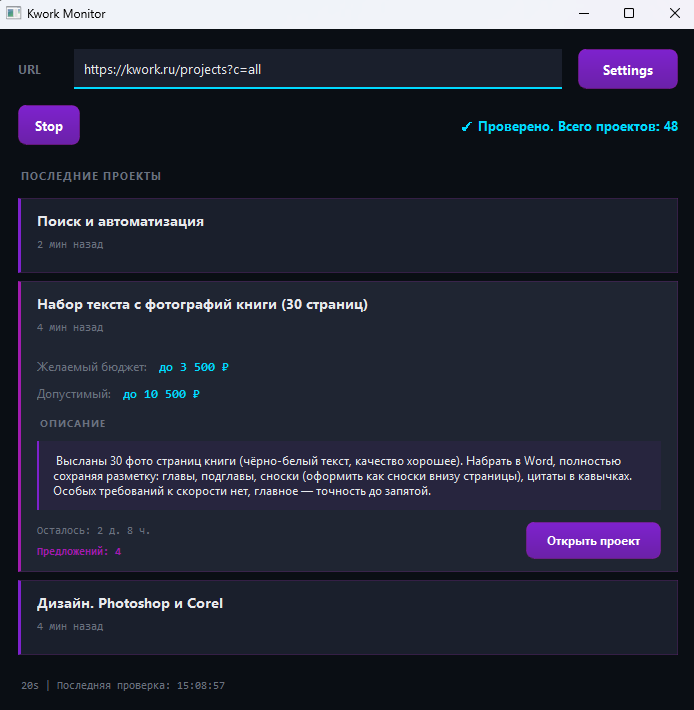
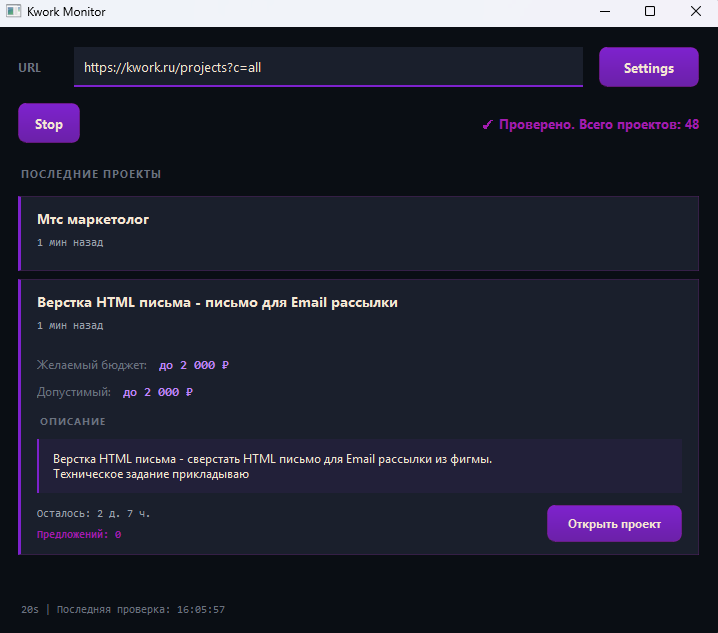
Improve animations, fix Unicode display, and add custom sound support
- Smooth card animations with OutCubic easing (400ms open / 350ms close)
- Fix Unicode escape sequences in descriptions ([:27a1] → ➡)
- Add custom notification.wav sound support (replaces system beep)
- Optimize animation performance (removed opacity animation for smoothness)
- Prevent animation conflicts with proper state checking
- Update screenshot with latest UI improvements

diff --git a/src/ui/project_card.py b/src/ui/project_card.py
@@ -1,7 +1,7 @@
 from PyQt5.QtWidgets import (
     QWidget, QVBoxLayout, QHBoxLayout, QLabel, QPushButton, QFrame, QGraphicsOpacityEffect
 )
-from PyQt5.QtCore import Qt, pyqtSignal, QPropertyAnimation, QEasingCurve, QParallelAnimationGroup
+from PyQt5.QtCore import Qt, pyqtSignal, QPropertyAnimation, QEasingCurve, QParallelAnimationGroup, QSequentialAnimationGroup
 from PyQt5.QtGui import QFont, QCursor
 from datetime import datetime
 import webbrowser
@@ -16,7 +16,7 @@ class ProjectCard(QFrame):
         super().__init__(parent)
         self.project = project
         self.expanded = False
-        self.animation = None
+        self.height_animation = None
         self.init_ui()
 
     def init_ui(self):
@@ -275,42 +275,51 @@ class ProjectCard(QFrame):
         """Переключает состояние раскрытия с плавной анимацией"""
         self.expanded = not self.expanded
 
+        # Останавливаем предыдущую анимацию если она еще работает
+        if self.height_animation and self.height_animation.state() == QPropertyAnimation.Running:
+            self.height_animation.stop()
+
         if self.expanded:
-            # Анимация раскрытия
+            # Показываем виджет и устанавливаем начальную высоту
             self.expanded_widget.setMaximumHeight(0)
             self.expanded_widget.show()
 
-            self.animation = QPropertyAnimation(self.expanded_widget, b"maximumHeight")
-            self.animation.setDuration(300)
-            self.animation.setStartValue(0)
-            self.animation.setEndValue(self.expanded_widget.sizeHint().height())
-            self.animation.setEasingCurve(QEasingCurve.OutCubic)
-            self.animation.start()
+            # Анимация раскрытия - более плавная
+            self.height_animation = QPropertyAnimation(self.expanded_widget, b"maximumHeight", self)
+            self.height_animation.setDuration(400)
+            self.height_animation.setStartValue(0)
+            self.height_animation.setEndValue(self.expanded_widget.sizeHint().height())
+            self.height_animation.setEasingCurve(QEasingCurve.OutCubic)
+            self.height_animation.start()
 
             # Уведомляем MainWindow, что эта карточка раскрылась
             self.expanded_changed.emit(self)
         else:
-            # Анимация закрытия
-            self.animation = QPropertyAnimation(self.expanded_widget, b"maximumHeight")
-            self.animation.setDuration(250)
-            self.animation.setStartValue(self.expanded_widget.height())
-            self.animation.setEndValue(0)
-            self.animation.setEasingCurve(QEasingCurve.InCubic)
-            self.animation.finished.connect(self.expanded_widget.hide)
-            self.animation.start()
+            # Анимация закрытия - такая же плавная
+            self.height_animation = QPropertyAnimation(self.expanded_widget, b"maximumHeight", self)
+            self.height_animation.setDuration(350)
+            self.height_animation.setStartValue(self.expanded_widget.height())
+            self.height_animation.setEndValue(0)
+            self.height_animation.setEasingCurve(QEasingCurve.OutCubic)
+            self.height_animation.finished.connect(self.expanded_widget.hide)
+            self.height_animation.start()
 
     def collapse(self):
         """Принудительно сворачивает карточку с анимацией"""
         if self.expanded:
             self.expanded = False
 
-            self.animation = QPropertyAnimation(self.expanded_widget, b"maximumHeight")
-            self.animation.setDuration(250)
-            self.animation.setStartValue(self.expanded_widget.height())
-            self.animation.setEndValue(0)
-            self.animation.setEasingCurve(QEasingCurve.InCubic)
-            self.animation.finished.connect(self.expanded_widget.hide)
-            self.animation.start()
+            # Останавливаем предыдущую анимацию если она еще работает
+            if self.height_animation and self.height_animation.state() == QPropertyAnimation.Running:
+                self.height_animation.stop()
+
+            self.height_animation = QPropertyAnimation(self.expanded_widget, b"maximumHeight", self)
+            self.height_animation.setDuration(350)
+            self.height_animation.setStartValue(self.expanded_widget.height())
+            self.height_animation.setEndValue(0)
+            self.height_animation.setEasingCurve(QEasingCurve.OutCubic)
+            self.height_animation.finished.connect(self.expanded_widget.hide)
+            self.height_animation.start()
 
     def _open_in_browser(self):
         """Открывает проект в браузере"""

diff --git a/src/services/notification.py b/src/services/notification.py
@@ -1,5 +1,6 @@
 import time
 import winsound
+import os
 from datetime import datetime
 from typing import List
 from ..models.project import Project
@@ -60,7 +61,13 @@ class NotificationService:
 
     def _play_sound(self):
         try:
-            winsound.MessageBeep(winsound.MB_ICONASTERISK)
+            # Путь к wav файлу
+            sound_path = os.path.join(os.path.dirname(os.path.dirname(os.path.dirname(__file__))), 'assets', 'notification.wav')
+            if os.path.exists(sound_path):
+                winsound.PlaySound(sound_path, winsound.SND_FILENAME | winsound.SND_ASYNC)
+            else:
+                # Fallback на системный звук
+                winsound.MessageBeep(winsound.MB_ICONASTERISK)
         except Exception as e:
             print(f"Ошибка воспроизведения звука: {e}")
 

diff --git a/src/core/json_parser.py b/src/core/json_parser.py
@@ -95,6 +95,9 @@ class KworkJSONParser:
                 # Декодируем HTML entities в описании
                 if full_description:
                     full_description = html.unescape(full_description)
+                    # Декодируем Unicode escape последовательности типа [:27a1]
+                    import re
+                    full_description = re.sub(r'\[:([0-9a-fA-F]+)\]', lambda m: chr(int(m.group(1), 16)), full_description)
                 description = full_description[:100] + '...' if len(full_description) > 100 else full_description
 
                 # Информация о заказчике